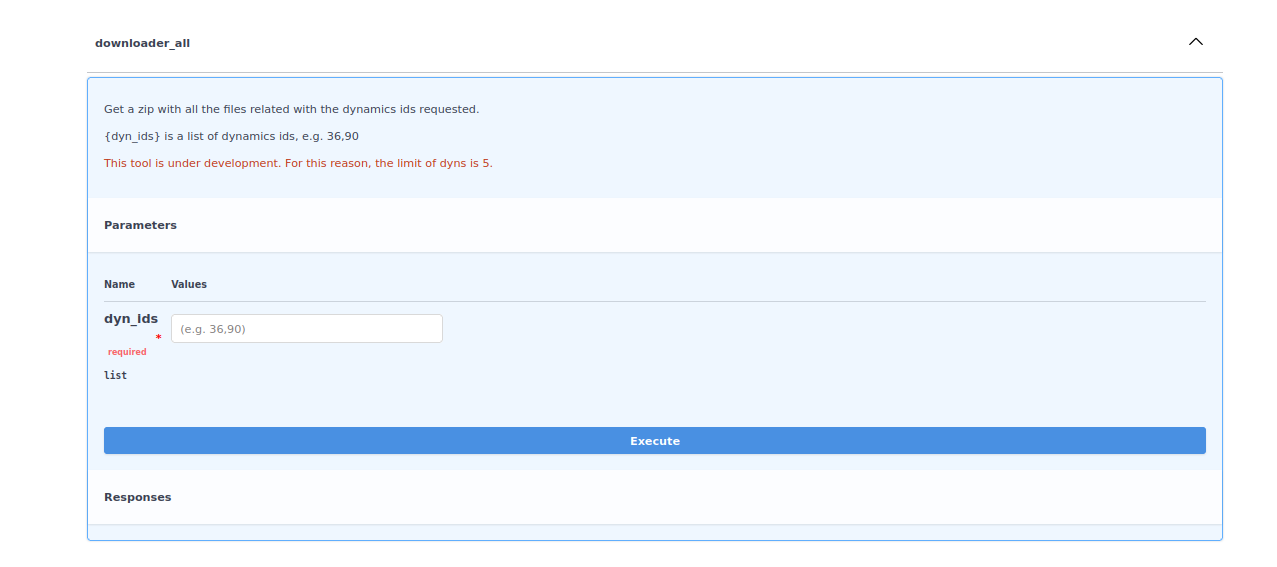
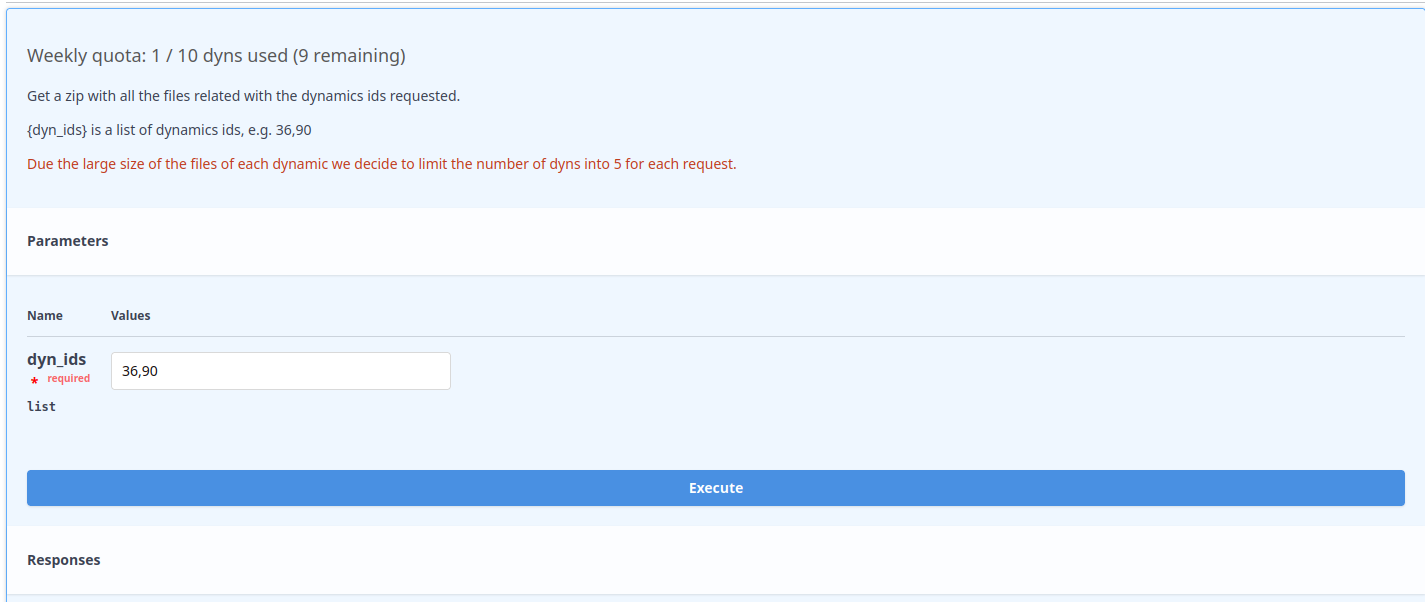
version 2.3 update

diff --git a/source/api.rst b/source/api.rst
@@ -64,7 +64,13 @@ Once the response is recived, the user can see the json with all the information
 Other GPCRmd API
 ================
 
-This other part of the api is related with the files stored into GPCRmd. For security, to have a control of who's is downloading the data from the web it is necessary to be log in with a GPCRmd account (see `GPCRmd account guide <https://gpcrmd-docs.readthedocs.io/en/latest/accounts.html>`_). 
+This other part of the api is related with the files stored into GPCRmd. 
+
+API Downloader
+--------------
+
+For security, to have a control of who's is downloading the data 
+  from the web it is necessary to be log in with a GPCRmd account (see `GPCRmd account guide <https://gpcrmd-docs.readthedocs.io/en/latest/accounts.html>`_). 
 
 .. image:: _static/gpcrmd_othapi.png
   :width: 600
@@ -73,25 +79,47 @@ This other part of the api is related with the files stored into GPCRmd. For sec
 One of the functions is the downloader. The main function of this tool is to download all the files related to a dynamic, from topology to protocol files. 
 
 .. warning::
-  Now, is under development for this reason is restricted to 5 dynamics ids for each request. 
+  To protect server performance, downloads are limited to 5 dynamics ids per request, and to a weekly quota per user. Your current quota usage is shown above the request form. 
 
 .. image:: _static/gpcrmd_othdown.png
   :width: 600
   :alt: GPCRmd other API downloader
 
-This process take some minutes because there are large files to collect, compressed and retrieve to the user. Let it run on the background.
+Weekly quota
+~~~~~~~~~~~~
 
-Once, the compressed file is created the user can see a button named "Download" to start the download of the file: 
+Each user account has a limit of **10 dynamics that can be downloaded per week** through this tool. The counter resets every Monday. You can see how much of your quota you've 
+  used at the top of the downloader, next to the request form.
+
+If you reach your weekly limit, new download requests will be rejected until the quota resets. Dynamics from a failed or incomplete download do not count against your quota — 
+  only successfully completed downloads are counted.
+
+If you need a higher limit for a specific research need, please contact us at `info@gpcrmd.org`.
+
+This process take some minutes because there are large files to collect, compressed and retrieve to the user. Let it run on the background. If you reload the page while 
+  a download is running, the tool will automatically reconnect to your ongoing request and resume showing its progress — you don't need to start it again.
+
+Retrieving your download
+~~~~~~~~~~~~~~~~~~~~~~~~
+
+Once the compressed file is created the user can see a button named "Download" to start the download of the file: 
 
 .. image:: _static/gpcrmd_othdownlink.png
   :width: 600
   :alt: GPCRmd other API downloader link
 
-Each dynamic have is own directory, using the id. Into each directory the user can find all the files related with each dynamic. 
+Each dynamic has its own directory, named after its id. Inside each directory you can find all the files related to that dynamic.
 
 .. image:: _static/gpcrmd_othdownzip.png
   :width: 600
   :alt: GPCRmd other API downloader zip
+
+Alongside the download link, a Log file button becomes available, listing every file included in your download and any dynamics that could not be added (for example, 
+  if not yet published). It opens in a new tab so you can keep the download page open.
+
+.. image:: _static/gpcrmd_othdownlog.png
+  :width: 600
+  :alt: GPCRmd other API downloader log
 
 In case that you found any problem, do not doubt on contact us to `info@gpcrmd.org`. 
 

diff --git a/source/changelog.rst b/source/changelog.rst
@@ -5,6 +5,35 @@ Changelog
     :maxdepth: 1
 
 
+2.3 (24 to 28-08-2026)
+*******************************
+
+**IMPORTANT**
+
+* Introduced a weekly quota limiting the number of dynamics a user can download, 
+  to prevent server overload from repeated large-scale download requests.
+
+**Added**
+
+* Displayed the current weekly download quota usage in the large-scale download tool.
+* Added automatic recovery of an in-progress download after a page reload.
+
+**Changed**
+
+* Reworked the large-scale downloader to reuse previously generated files for 
+  identical requests instead of regenerating them each time.
+* Enforced the 5-dynamics-per-request limit directly when the request is submitted.
+* Adjusted the download progress polling to use a growing interval, reducing 
+  server load during long downloads.
+* The download log file now opens in a new browser tab.
+
+**Fixed**
+
+* Fixed a bug where the progress bar could stop updating before a download finished.
+* Fixed a error that could interrupt the progress-polling cycle.
+* Removed an unnecessary delay in the download-status check that could slow down 
+  the server with multiple simultaneous users.
+
 2.2 (09-06-2026)  
 *******************************
 
@@ -49,7 +78,7 @@ Changelog
 
 * Problems with format .tar.gz when uploading files in step 4 of the submission form.
 
-2.1.0 (08-04-2025 | 10-04-2025)
+2.1.0 (08 to 10-04-2025)
 *******************************
 
 **IMPORTANT**
@@ -122,7 +151,7 @@ Changelog
 
 * Some minor bugs on the submission form.  
 
-2.0.7 (05-08-2024 | 09-08-2024)
+2.0.7 (05 to 09-08-2024)
 *******************************
 
 This update is mainly to improve the server performance:
